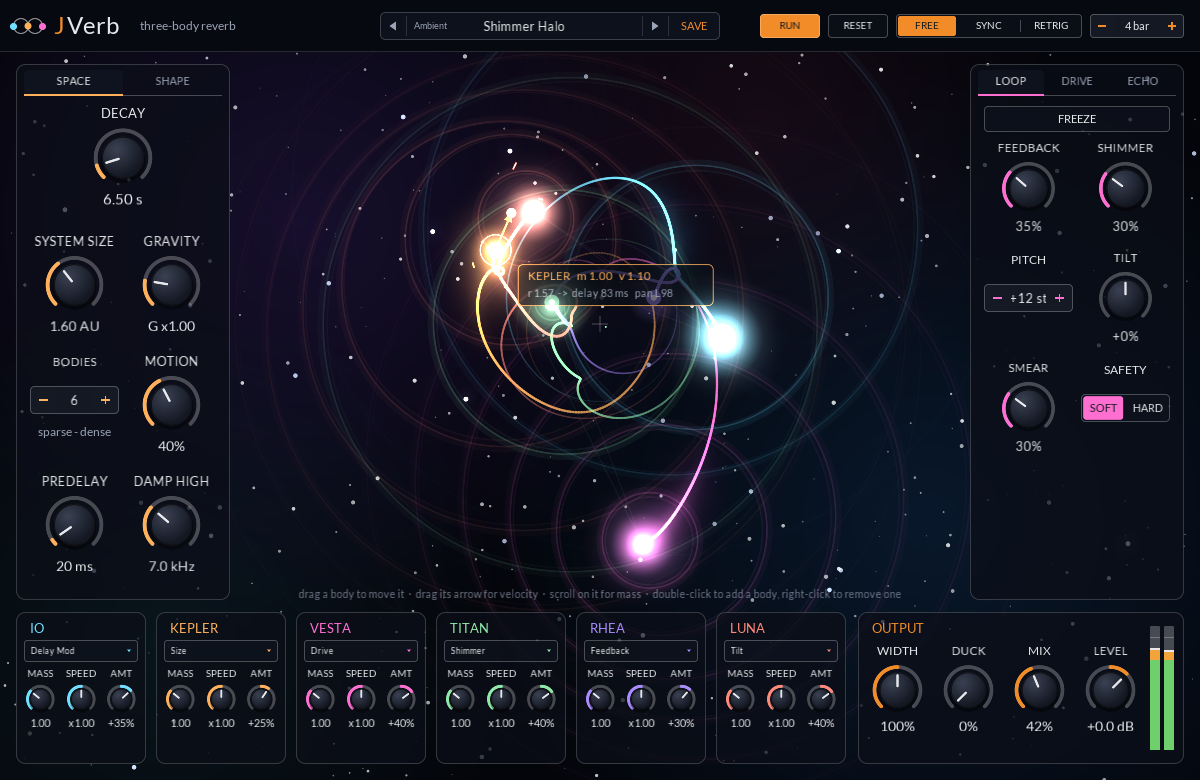
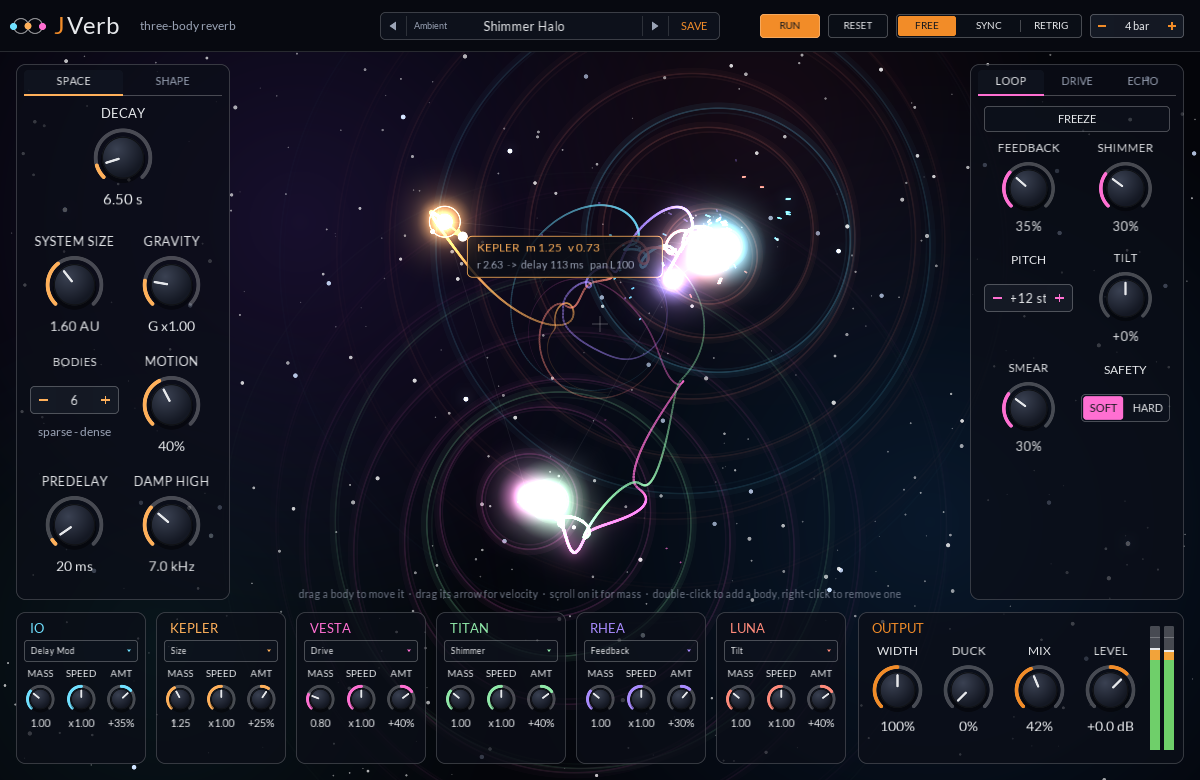
JVerb: start the three bodies with unequal masses
Three equal masses on the figure-eight stay on it: the orbit is stable,
so the default motion repeated instead of turning chaotic. Defaults of
1.0, 1.25 and 0.8 break it up within a few laps (nearby starts diverge
from 1e-9 to 1e-2 in about 40 s) while staying bound.

Claude-Session: https://claude.ai/code/session_01G8usepLMvmy9exTfPe5V8f

diff --git a/plugins/jverb/src/params.h b/plugins/jverb/src/params.h
@@ -103,6 +103,9 @@ constexpr auto kToggle = CLAP_PARAM_IS_AUTOMATABLE | CLAP_PARAM_IS_STEPPED;
 // Each body starts on a different routing, so turning bodies on adds something new.
 constexpr double kDefaultTarget[kMaxBodies] = {1, 2, 3, 4, 5, 6};
 constexpr double kDefaultAmount[kMaxBodies] = {0.35, 0.25, 0.4, 0.4, 0.3, 0.4};
+// Unequal masses: three equal ones would stay on the figure-eight they start on, which is stable.
+// These break it up within a few laps into motion that never repeats.
+constexpr double kDefaultMass[kMaxBodies] = {1.0, 1.25, 0.8, 1.0, 1.0, 1.0};
 
 inline const char *const kBodyNames[kMaxBodies] = {"IO", "KEPLER", "VESTA", "TITAN", "RHEA", "LUNA"};
 
@@ -136,7 +139,7 @@ struct ParamTable {
       for (int b = 0; b < kMaxBodies; ++b) {
          for (int k = 0; k < 4; ++k)
             std::snprintf(names[b][k], sizeof(names[b][k]), "%s %s", kBodyNamesTitle(b), kSuffix[k]);
-         defs[bodyParam(b, kBody1Mass)] = {bodyParam(b, kBody1Mass), names[b][0], "Bodies", 0.1, 3.0, 1.0, kMod};
+         defs[bodyParam(b, kBody1Mass)] = {bodyParam(b, kBody1Mass), names[b][0], "Bodies", 0.1, 3.0, kDefaultMass[b], kMod};
          defs[bodyParam(b, kBody1Velocity)] = {bodyParam(b, kBody1Velocity), names[b][1], "Bodies", 0.5, 1.5, 1.0, kMod};
          defs[bodyParam(b, kBody1Target)] = {bodyParam(b, kBody1Target), names[b][2], "Bodies", 0.0,
                                              static_cast<double>(Target::Count) - 1.0, kDefaultTarget[b], kChoice};

diff --git a/plugins/jverb/src/orbit.h b/plugins/jverb/src/orbit.h
@@ -22,8 +22,8 @@ public:
       double x = 0, y = 0, vx = 0, vy = 0;
    };
 
-   // Puts `count` bodies at their start positions: three start on a figure-eight (nudged so it
-   // slowly turns chaotic), any other count on a ring at its circular speed. `velocity` scales each
+   // Puts `count` bodies at their start positions: three start on a figure-eight (stable with
+   // equal masses, chaotic within a few laps with unequal ones), any other count on a ring at its circular speed. `velocity` scales each
    // body's start velocity.
    void reset(int count, const double *mass, const double *velocity, double gravity) {
       count_ = std::clamp(count, 2, kMax);
